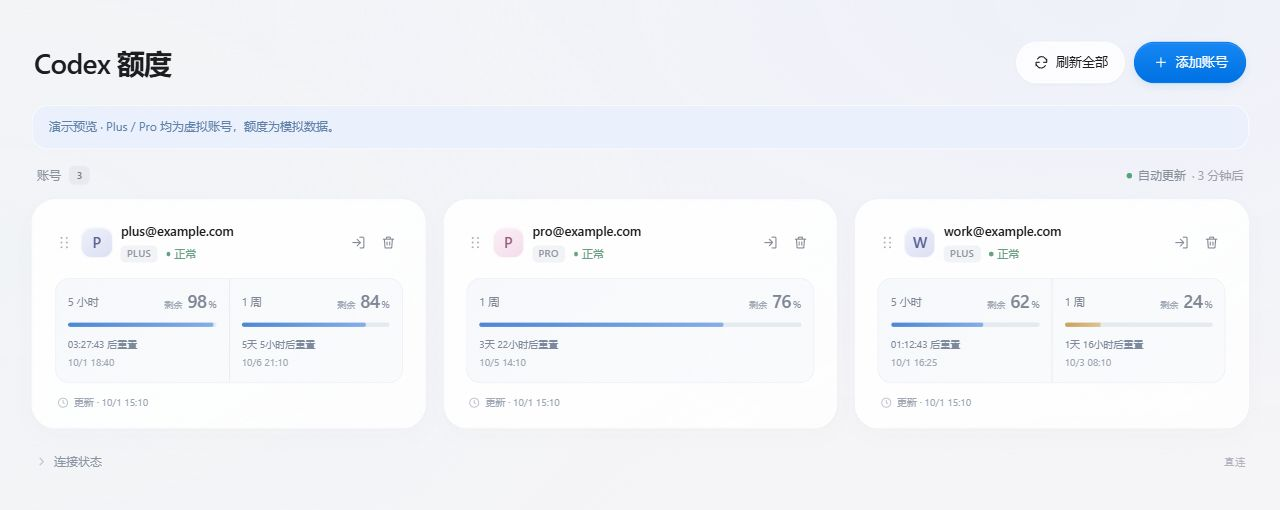
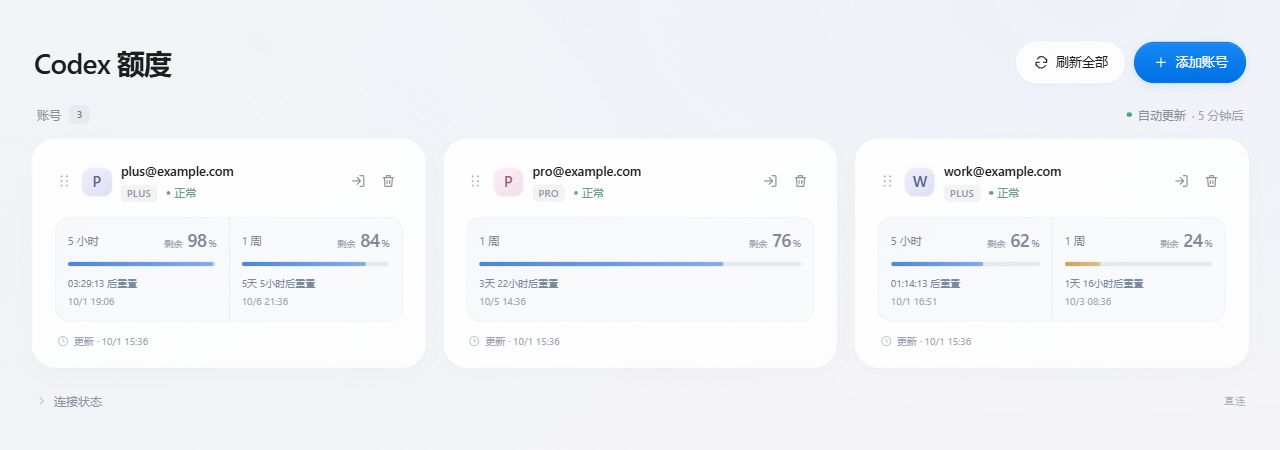
Keep verification notes in full guide and clean README preview

diff --git a/docs/USAGE.md b/docs/USAGE.md
@@ -95,6 +95,8 @@ OAuth 回调临时使用 http://localhost:1455/auth/callback，监听只绑定 1
 
 ## 额度与兼容性
 
+README 截图使用虚拟 Plus / Pro 账号和模拟额度；Pro 示例展示接口只返回周额度时的布局，实际窗口以接口响应为准。
+
 以账号接口实际响应为准，不根据套餐名虚构额度。只返回周窗口时只显示一周；字段缺失显示未知，不能据此推断无限额度。Pro 显示已通过模拟数据验证，真实 Pro 账号查询仍待验证。套餐续费日期和切换指定浏览器账号的 ChatGPT 入口尚未提供。
 
 这是非官方工具。OAuth 和 usage 使用 Codex 客户端兼容参数及非公开接口，未来可能变化或停止工作。适配集中在 openai.js；代理读取集中在 proxy.js。授权失效显示“需要重新登录”，其他查询错误分别处理；401 按允许的续期时间重试一次，429 遵守 Retry-After。

diff --git a/README.md b/README.md
@@ -2,9 +2,7 @@
 
 一个轻量的本地 **Codex 多账号额度监控工具**：查看剩余额度和重置时间，支持 Windows / macOS。
 
-![Plus 与 Pro 虚拟账号预览](docs/assets/preview.jpg)
-
-> 截图中的 Plus / Pro 账号与额度均为模拟数据。Pro 示例展示仅返回周额度的布局，实际窗口以接口响应为准。
+![Codex 多账号额度监控界面](docs/assets/preview.jpg)
 
 ## 为什么用它
 
@@ -102,6 +100,6 @@ chmod +x macos.command
 
 详细的账号操作、系统代理、数据保存位置、日志、兼容性和测试说明，都保留在 **[完整使用说明](docs/USAGE.md)**。
 
-非官方工具，使用的非公开接口可能变化。真实 Pro 账号查询仍待验证。不要分享本机的 `accounts.json` 授权文件。
+非官方工具，使用的非公开接口可能变化。不要分享本机的 `accounts.json` 授权文件。
 
 [MIT License](LICENSE)
